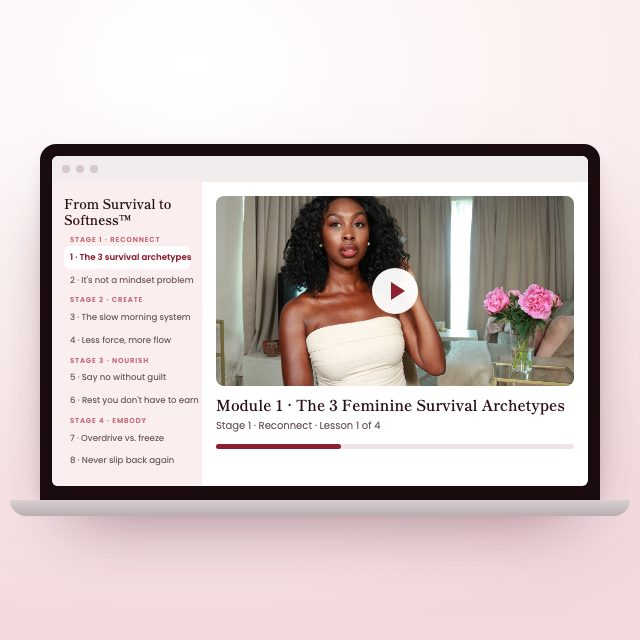
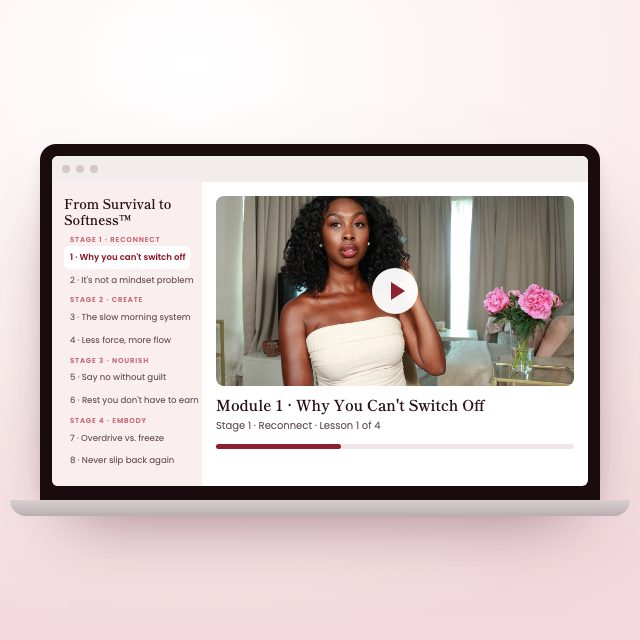
Rename module 1 so it doesn't match a YouTube video title

Changed region(s): [[0.4688, 0.625, 0.875, 0.6562], [0.125, 0.375, 0.3125, 0.4062]]

diff --git a/index.html b/index.html
@@ -242,7 +242,7 @@ footer{padding:30px 20px 44px;text-align:center;font-size:13px;color:var(--mute)
       <p class="secure">Secure your spot today</p>
       <img class="bundle" src="img/bundle.jpg" alt="The program, the reprogramming session, the hypnosis sessions and the journal">
 
-      <div class="chk"><h3><span class="k">The From Survival to Softness™ 8-Week Program</span></h3><p>My flagship 4-stage program, where I take you from survival mode to a soft, calm life in just 8 weeks. You'll discover which of the 3 Feminine Survival Archetypes is running your life, why your exhaustion is your nervous system and not a mindset problem, my Slow Morning System, how to say no without guilt, how to rest without feeling like you have to earn it, and how to never slip back into survival mode. And you won't do it alone: you get 6 live coaching calls where I coach you personally, and you go through every stage together with the other women in the program. ($2,997 Value)</p></div>
+      <div class="chk"><h3><span class="k">The From Survival to Softness™ 8-Week Program</span></h3><p>My flagship 4-stage program, where I take you from survival mode to a soft, calm life in just 8 weeks. You'll discover why you can't switch off, even when you finally have time to rest, why your exhaustion is your nervous system and not a mindset problem, my Slow Morning System, how to say no without guilt, how to rest without feeling like you have to earn it, and how to never slip back into survival mode. And you won't do it alone: you get 6 live coaching calls where I coach you personally, and you go through every stage together with the other women in the program. ($2,997 Value)</p></div>
 
       <div class="chk"><h3><span class="k">BONUS #1:</span> Your Private 1:1 Subconscious Reprogramming Session With Me</h3><p>Just you and me for 45 minutes. Your head already knows you deserve rest, but the rest of you doesn't believe it yet. Together we find the belief underneath it, like "I have to earn my rest" or "I have to do it all alone", and we reprogram it. ($397 Value)</p></div>
 
